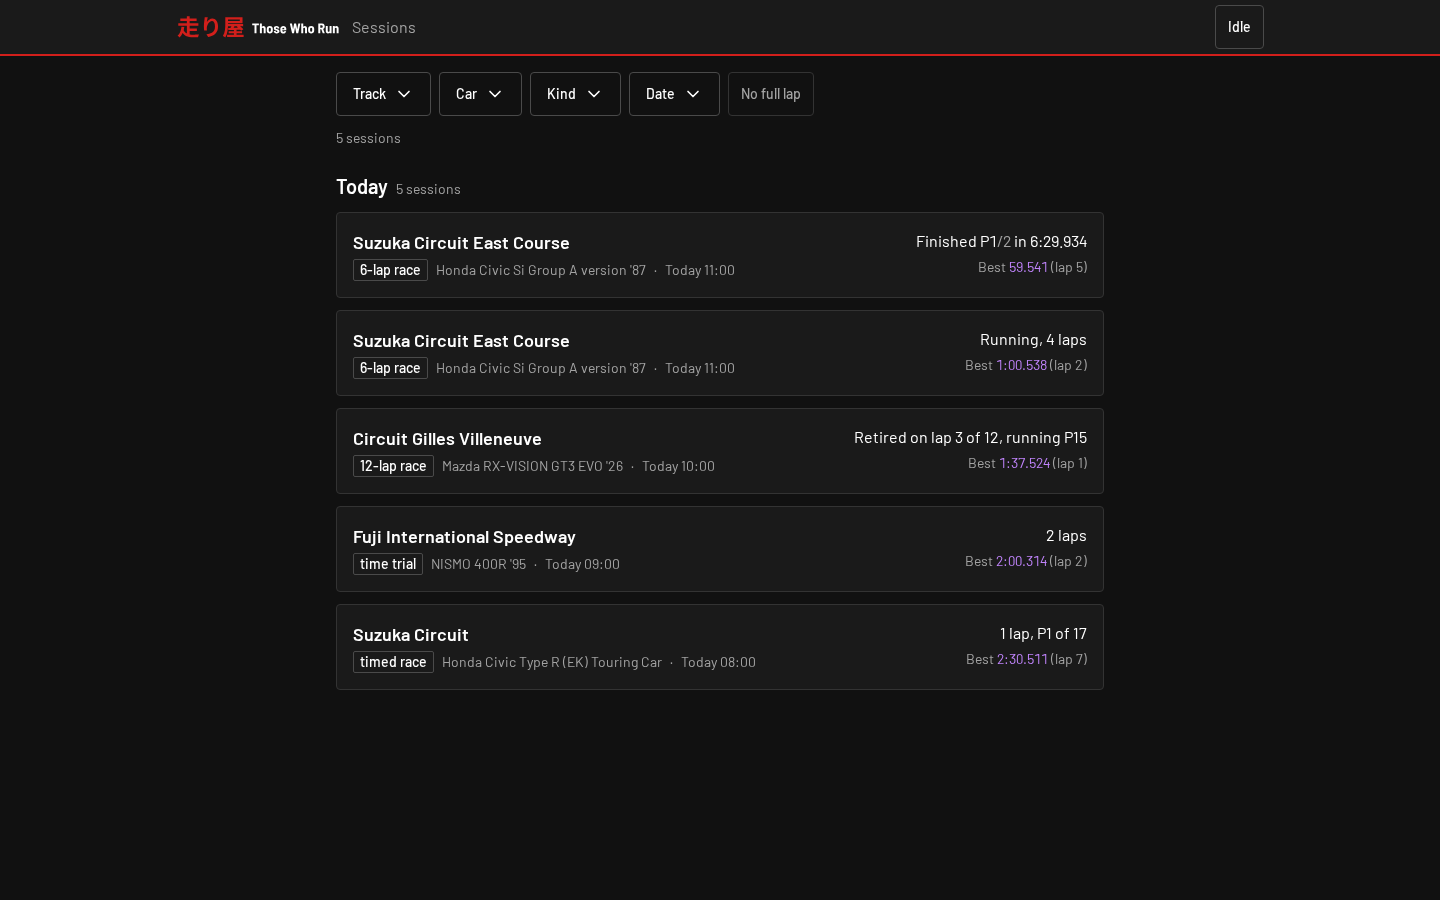
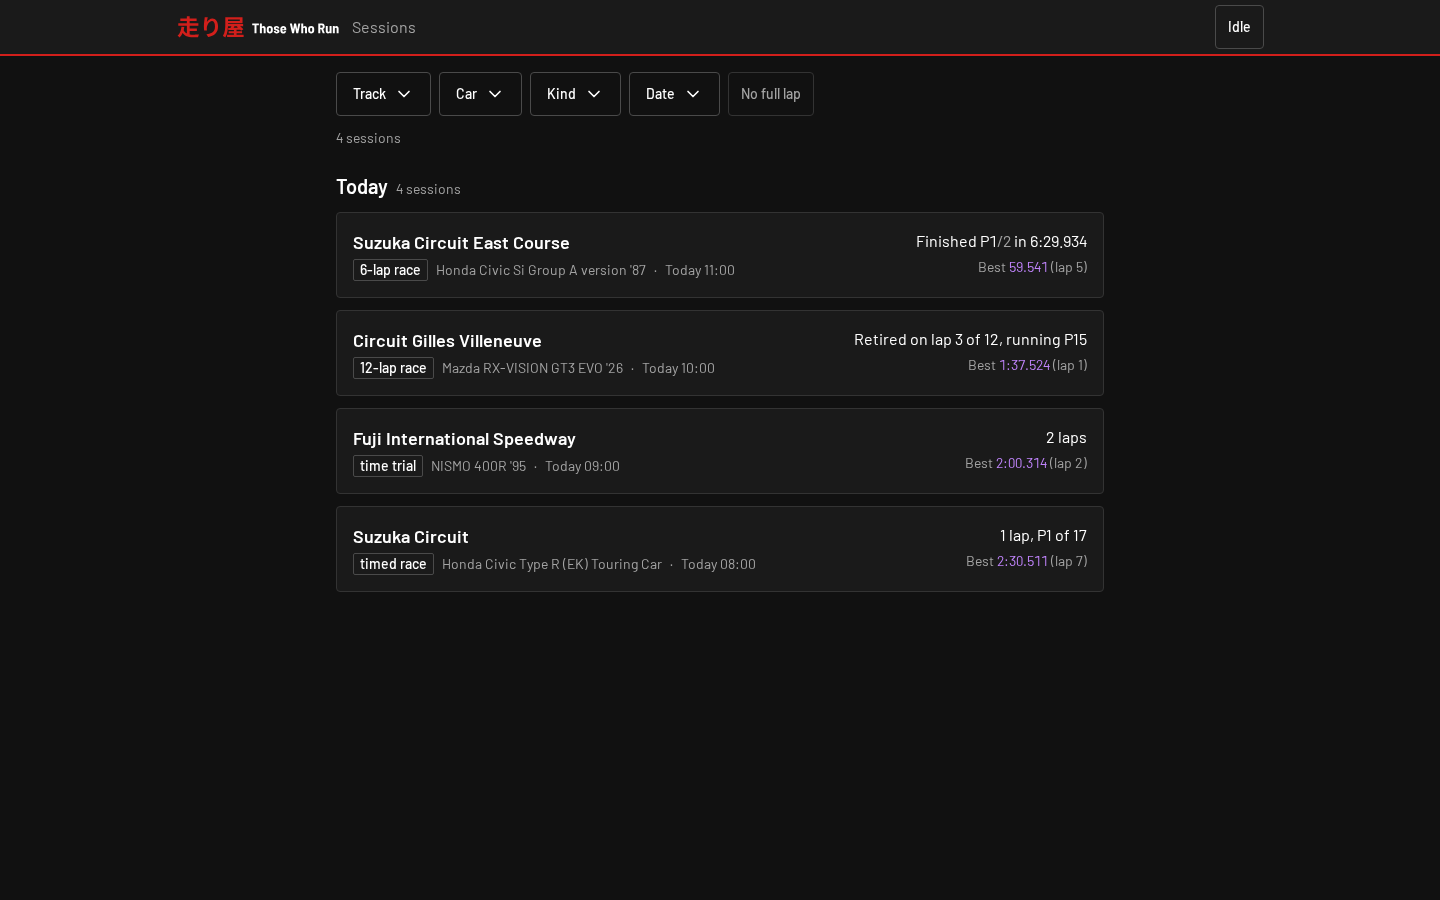
docs: screenshots with every session finished, and the laps on the phone
The docs store has no open session (E2E_NO_LIVE_SESSION), so no card says
"Running" under the "Idle" chip, and the session page is shot with the
viewport as tall as the page, so the phone shows the laps. replay --clock
refuses NaN, infinity and times before 1970. The screenshots line moves
out of the driver-facing pit wall guide (development.md has it).

diff --git a/web/e2e/docs.screens.ts b/web/e2e/docs.screens.ts
@@ -6,8 +6,12 @@
 // The same pictures every run: the store is dated from a fixed time (the config's
 // E2E_REPLAY_CLOCK), the browser's clock is fixed after the newest session, the
 // time zone and locale are set, motion is reduced, the fonts have loaded, the
-// engineer is in one scenario ("idle"), and each shot is the viewport, not the
-// whole page.
+// engineer is in one scenario ("idle"), and no session is open (the docs config's
+// E2E_NO_LIVE_SESSION), so no card says "Running" under an "Idle" chip. Each shot
+// is the viewport, but the session page's: there the viewport grows to the page's
+// height first, so the laps show on a phone, and the pick bar that sticks to the
+// viewport's foot sits under them rather than over a lap (as a fullPage shot
+// would leave it).
 import { mkdirSync } from "node:fs";
 import { join } from "node:path";
 import { fileURLToPath } from "node:url";
@@ -33,11 +37,21 @@ test.beforeEach(async ({ page }) => {
 /** The page as it settles: fonts loaded, the engineer chip saying "Idle", nothing
  * loading (but on /_kit, which shows its loading states on purpose), no pointer over
  * anything; then the shot. */
-async function shoot(page: Page, testInfo: TestInfo, name: string, loads = true): Promise<void> {
+async function shoot(
+  page: Page,
+  testInfo: TestInfo,
+  name: string,
+  { loads = true, tall = false }: { loads?: boolean; tall?: boolean } = {},
+): Promise<void> {
   await page.evaluate(() => document.fonts.ready);
   await expect(page.getByRole("banner").getByRole("button", { name: "Idle", exact: true })).toBeVisible();
   if (loads) {
     await expect(page.getByRole("status", { name: /^Loading/ })).toHaveCount(0);
+  }
+  if (tall) {
+    const width = page.viewportSize()!.width;
+    const height = await page.evaluate(() => document.documentElement.scrollHeight);
+    await page.setViewportSize({ width, height });
   }
   await page.mouse.move(0, 0);
   const dir = join(SCREENS, testInfo.project.name);
@@ -61,7 +75,7 @@ test("the race's session page", async ({ page }, testInfo) => {
   await page.goto(`/sessions/${await raceId(page)}`);
   await expect(page.getByRole("heading", { level: 2 })).toBeVisible();
   await expect(page.getByRole("table").first()).toBeVisible();
-  await shoot(page, testInfo, "session");
+  await shoot(page, testInfo, "session", { tall: true });
 });
 
 test("lap compare: the best lap against the next fastest", async ({ page }, testInfo) => {
@@ -74,5 +88,5 @@ test("lap compare: the best lap against the next fastest", async ({ page }, test
 test("the component kit", async ({ page }, testInfo) => {
   await page.goto("/_kit");
   await expect(page.getByRole("heading", { level: 1 })).toBeVisible();
-  await shoot(page, testInfo, "kit", false);
+  await shoot(page, testInfo, "kit", { loads: false });
 });

diff --git a/web/e2e/global-setup.ts b/web/e2e/global-setup.ts
@@ -13,7 +13,9 @@
 // spec expects it.
 //
 // One session in the main store is then copied in as still open (./store.ts), for
-// the live session page (#298 AC5).
+// the live session page (#298 AC5), unless E2E_NO_LIVE_SESSION is set: the docs'
+// screenshots show a store whose sessions have all finished, as the "Idle" engineer
+// chip says.
 import { spawn, spawnSync } from "node:child_process";
 import { existsSync, mkdirSync, mkdtempSync, readdirSync, rmSync, writeFileSync } from "node:fs";
 import { createServer } from "node:net";
@@ -138,7 +140,8 @@ let replays = 0;
 /** `replay`'s `--clock`, when E2E_REPLAY_CLOCK (epoch seconds) is set: each replay's
  * sessions are dated from it, an hour apart in replay order, in place of the wall
  * clock, so the store is the same on every run and every day (the docs'
- * screenshots, #336). Unset, the replay names its sessions by the clock. */
+ * screenshots, #336). Every fixture is under an hour long; a longer one would
+ * overlap the next. Unset, the replay names its sessions by the clock. */
 function clockArgs(): string[] {
   const start = process.env.E2E_REPLAY_CLOCK;
   return start ? ["--clock", String(Number(start) + 3600 * replays++)] : [];
@@ -210,7 +213,7 @@ export default async function globalSetup(): Promise<() => Promise<void>> {
   for (const fixture of STORE_FIXTURES) {
     const before = new Set(sessionIds());
     replay(command, data, [join(FIXTURES, fixture)]);
-    if (fixture === LIVE_SOURCE_FIXTURE) {
+    if (fixture === LIVE_SOURCE_FIXTURE && !process.env.E2E_NO_LIVE_SESSION) {
       // The replay names its session by the clock: the one directory it added.
       const [id] = sessionIds().filter((d) => !before.has(d));
       if (!id) {

diff --git a/web/playwright.docs.config.ts b/web/playwright.docs.config.ts
@@ -11,6 +11,9 @@ import { VIEWPORTS } from "./e2e/viewports";
 /** The replayed sessions start here, an hour apart (./e2e/global-setup.ts). */
 process.env.E2E_REPLAY_CLOCK ??= String(Date.UTC(2026, 9, 18, 8, 0, 0) / 1000);
 
+/** No open session: the engineer chip says "Idle", so no card may say "Running". */
+process.env.E2E_NO_LIVE_SESSION = "1";
+
 const SIZES = ["phone", "desktop"];
 
 export default defineConfig({

diff --git a/src/those_who_run/cli/replay.py b/src/those_who_run/cli/replay.py
@@ -5,6 +5,7 @@ from __future__ import annotations
 import argparse
 import asyncio
 import logging
+import math
 from collections.abc import Iterable, Iterator
 from datetime import UTC, datetime
 from pathlib import Path
@@ -47,16 +48,19 @@ def configure(parser: argparse.ArgumentParser) -> None:
 
 def clock_start(text: str) -> float:
     """``--clock``'s value as epoch seconds: a number, or an ISO 8601 time (UTC
-    unless it carries an offset)."""
+    unless it carries an offset). NaN, infinity and times before 1970 are refused,
+    so a typo never dates the store's sessions with them."""
     try:
-        return float(text)
+        seconds = float(text)
     except ValueError:
-        pass
-    try:
-        when = datetime.fromisoformat(text)
-    except ValueError:
-        raise argparse.ArgumentTypeError(f"not a time: {text!r}") from None
-    return (when if when.tzinfo else when.replace(tzinfo=UTC)).timestamp()
+        try:
+            when = datetime.fromisoformat(text)
+        except ValueError:
+            raise argparse.ArgumentTypeError(f"not a time: {text!r}") from None
+        seconds = (when if when.tzinfo else when.replace(tzinfo=UTC)).timestamp()
+    if not math.isfinite(seconds) or seconds < 0:
+        raise argparse.ArgumentTypeError(f"not a time from 1970 on: {text!r}")
+    return seconds
 
 
 class RecordingClock:

diff --git a/tests/test_replay_store.py b/tests/test_replay_store.py
@@ -116,6 +116,14 @@ def test_replay_clock_takes_iso_or_epoch_seconds():
     assert p.parse_args(["replay", "x"]).clock is None
 
 
+@pytest.mark.parametrize("text", ["nan", "inf", "-inf", "-1", "1969-12-31T23:59:59Z"])
+def test_replay_clock_refuses_non_finite_and_negative_times(text, capsys):
+    """A typo must not write NaN, infinity or a time before 1970 into the store."""
+    with pytest.raises(SystemExit):
+        build_parser().parse_args(["replay", "x", f"--clock={text}"])
+    assert f"not a time from 1970 on: {text!r}" in capsys.readouterr().err
+
+
 def test_replay_clock_refuses_what_is_not_a_time(capsys):
     with pytest.raises(SystemExit):
         build_parser().parse_args(["replay", "x", "--clock", "teatime"])

diff --git a/docs/pitwall.md b/docs/pitwall.md
@@ -4,9 +4,6 @@ For the driver and anyone running the pit wall: the web app as a driver uses it,
 
 ## Pages
 
-The screenshots are taken by `make docs-screenshots` from the fixtures the
-tests use ([Development](development.md#screenshots)).
-
 The pit wall is a React app over the session store, served with its read-only
 data API by `those-who-run pitwall` on port 9852 (`--port` or
 `GT7_PITWALL_PORT`, `--address` to bind; ADR 0003). One column, so it works on
@@ -33,8 +30,8 @@ a phone straight after a race:
 
 | | Phone | Desktop |
 |---|---|---|
-| Sessions | ![The session list on a phone: today's sessions as cards, each with its track, kind, car, time, result and best lap](assets/screens/phone/sessions.png) | ![The session list on a desktop: filters for track, car, kind and date over today's five sessions](assets/screens/desktop/sessions.png) |
-| A session | ![A 12-lap race at Circuit Gilles Villeneuve on a phone: P15 of 20, retired on lap 3, and stat tiles for best lap, average, laps, fuel used, pit stops and driving time](assets/screens/phone/session.png) | ![The same race on a desktop: the result, the stat tiles and the lap table, with lap 1 the best and lap 3 partial](assets/screens/desktop/session.png) |
+| Sessions | ![The session list on a phone: today's sessions as cards, each with its track, kind, car, time, result and best lap](assets/screens/phone/sessions.png) | ![The session list on a desktop: filters for track, car, kind and date over today's four sessions](assets/screens/desktop/sessions.png) |
+| A session | ![A 12-lap race at Circuit Gilles Villeneuve on a phone: P15 of 20, retired on lap 3, and stat tiles for best lap, average, laps, fuel used, pit stops and driving time, then the laps](assets/screens/phone/session.png) | ![The same race on a desktop: the result, the stat tiles and the lap table, with lap 1 the best and lap 3 partial](assets/screens/desktop/session.png) |
 | Lap compare | ![Lap compare on a phone: lap 1 against lap 2 of the race, the cursor readout, and the speed and throttle charts](assets/screens/phone/compare.png) | ![Lap compare on a desktop: lap 1, the best, against lap 2, with speed and throttle charts of both laps](assets/screens/desktop/compare.png) |
 | `/_kit` | ![The component kit on a phone: lap times, gaps and positions in each of their states](assets/screens/phone/kit.png) | ![The component kit on a desktop: lap times, gaps, positions and kind badges in each of their states, loading included](assets/screens/desktop/kit.png) |
 

diff --git a/README.md b/README.md
@@ -25,8 +25,8 @@ through Discord, so it needs a Discord server and a bot.
 ## Screenshots
 
 <p>
-  <img src="docs/assets/screens/phone/session.png" width="260" alt="The pit wall on a phone: a 12-lap race at Circuit Gilles Villeneuve, P15 of 20, retired on lap 3, with the best lap, average, laps, fuel used, pit stops and driving time as tiles">
-  <img src="docs/assets/screens/desktop/sessions.png" width="540" alt="The pit wall on a desktop: today's five sessions, each with its track, kind, car, time, result and best lap, under filters for track, car, kind and date">
+  <img src="docs/assets/screens/phone/session.png" width="260" alt="The pit wall on a phone: a 12-lap race at Circuit Gilles Villeneuve, P15 of 20, retired on lap 3, with the best lap, average, laps, fuel used, pit stops and driving time as tiles, then the lap table">
+  <img src="docs/assets/screens/desktop/sessions.png" width="540" alt="The pit wall on a desktop: today's four sessions, each with its track, kind, car, time, result and best lap, under filters for track, car, kind and date">
 </p>
 
 The pit wall, the web app over every session you have driven, is described in

diff --git a/docs/development.md b/docs/development.md
@@ -71,7 +71,9 @@ It runs `web/playwright.docs.config.ts` and `web/e2e/docs.screens.ts` over the
 e2e suite's global setup (the built app on the real pit wall, the replayed
 fixtures, the stub engineer), with the store dated from a fixed time
 (`replay --clock`, through `E2E_REPLAY_CLOCK`), the browser's clock, time zone
-and locale fixed, motion reduced and the engineer idle. Two runs give the same
+and locale fixed, motion reduced, the engineer idle and no session open
+(`E2E_NO_LIVE_SESSION`), so no card says "Running" under an "Idle" chip. The
+session page's shot is as tall as the page, so the laps show on a phone. Two runs give the same
 bytes on one machine. `make web-check` never runs it and never writes `docs/`.
 
 Run it in a PR that changes how one of those pages looks, and look at the
